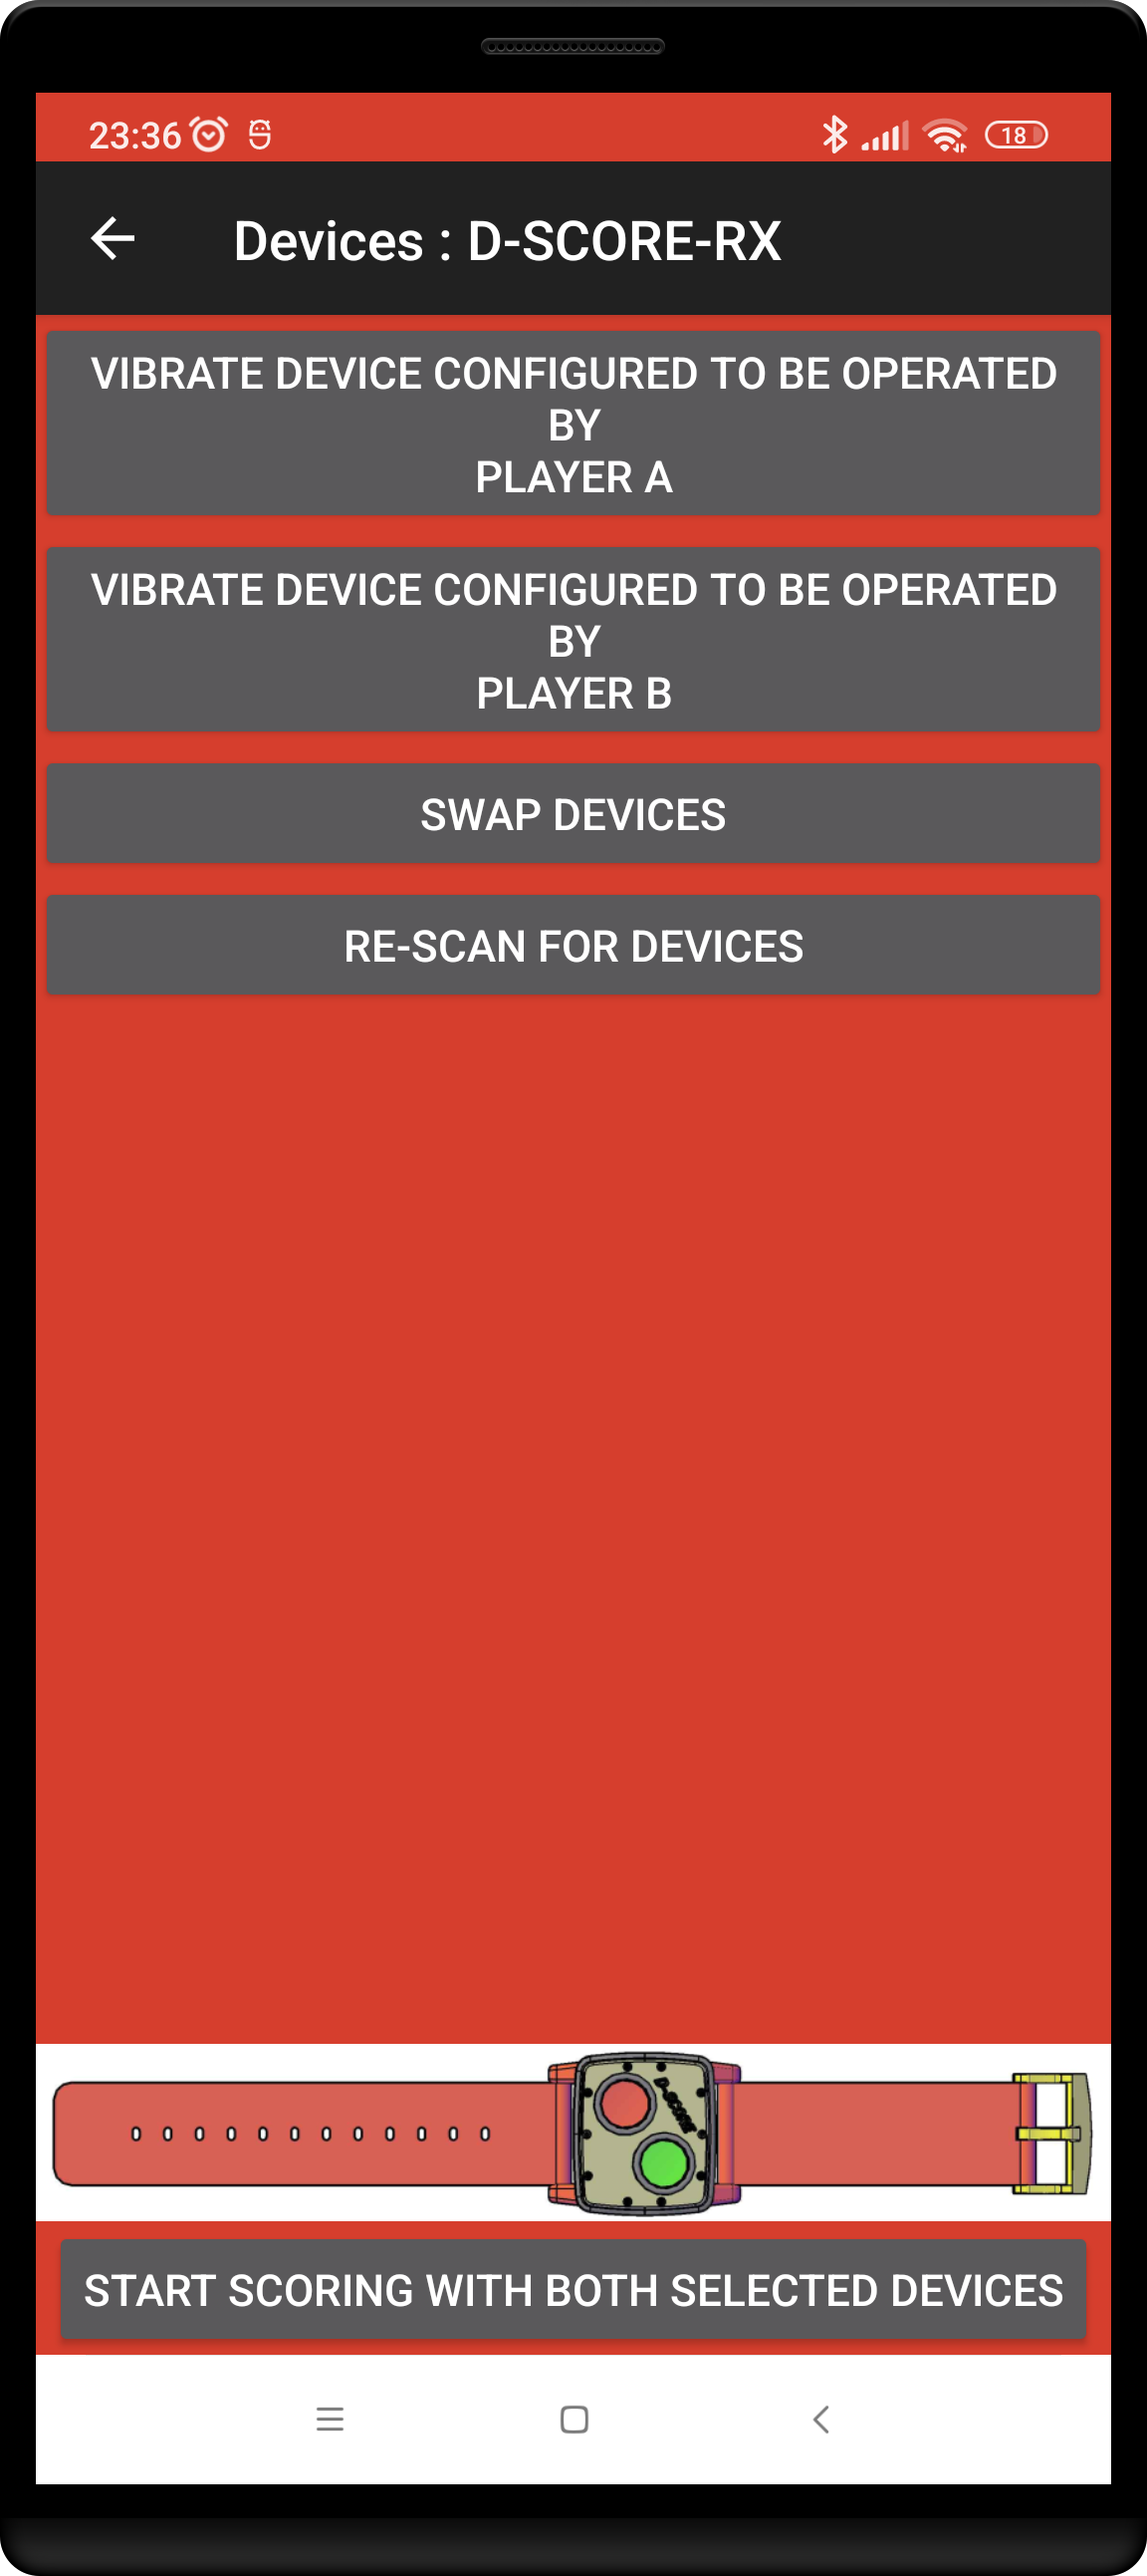
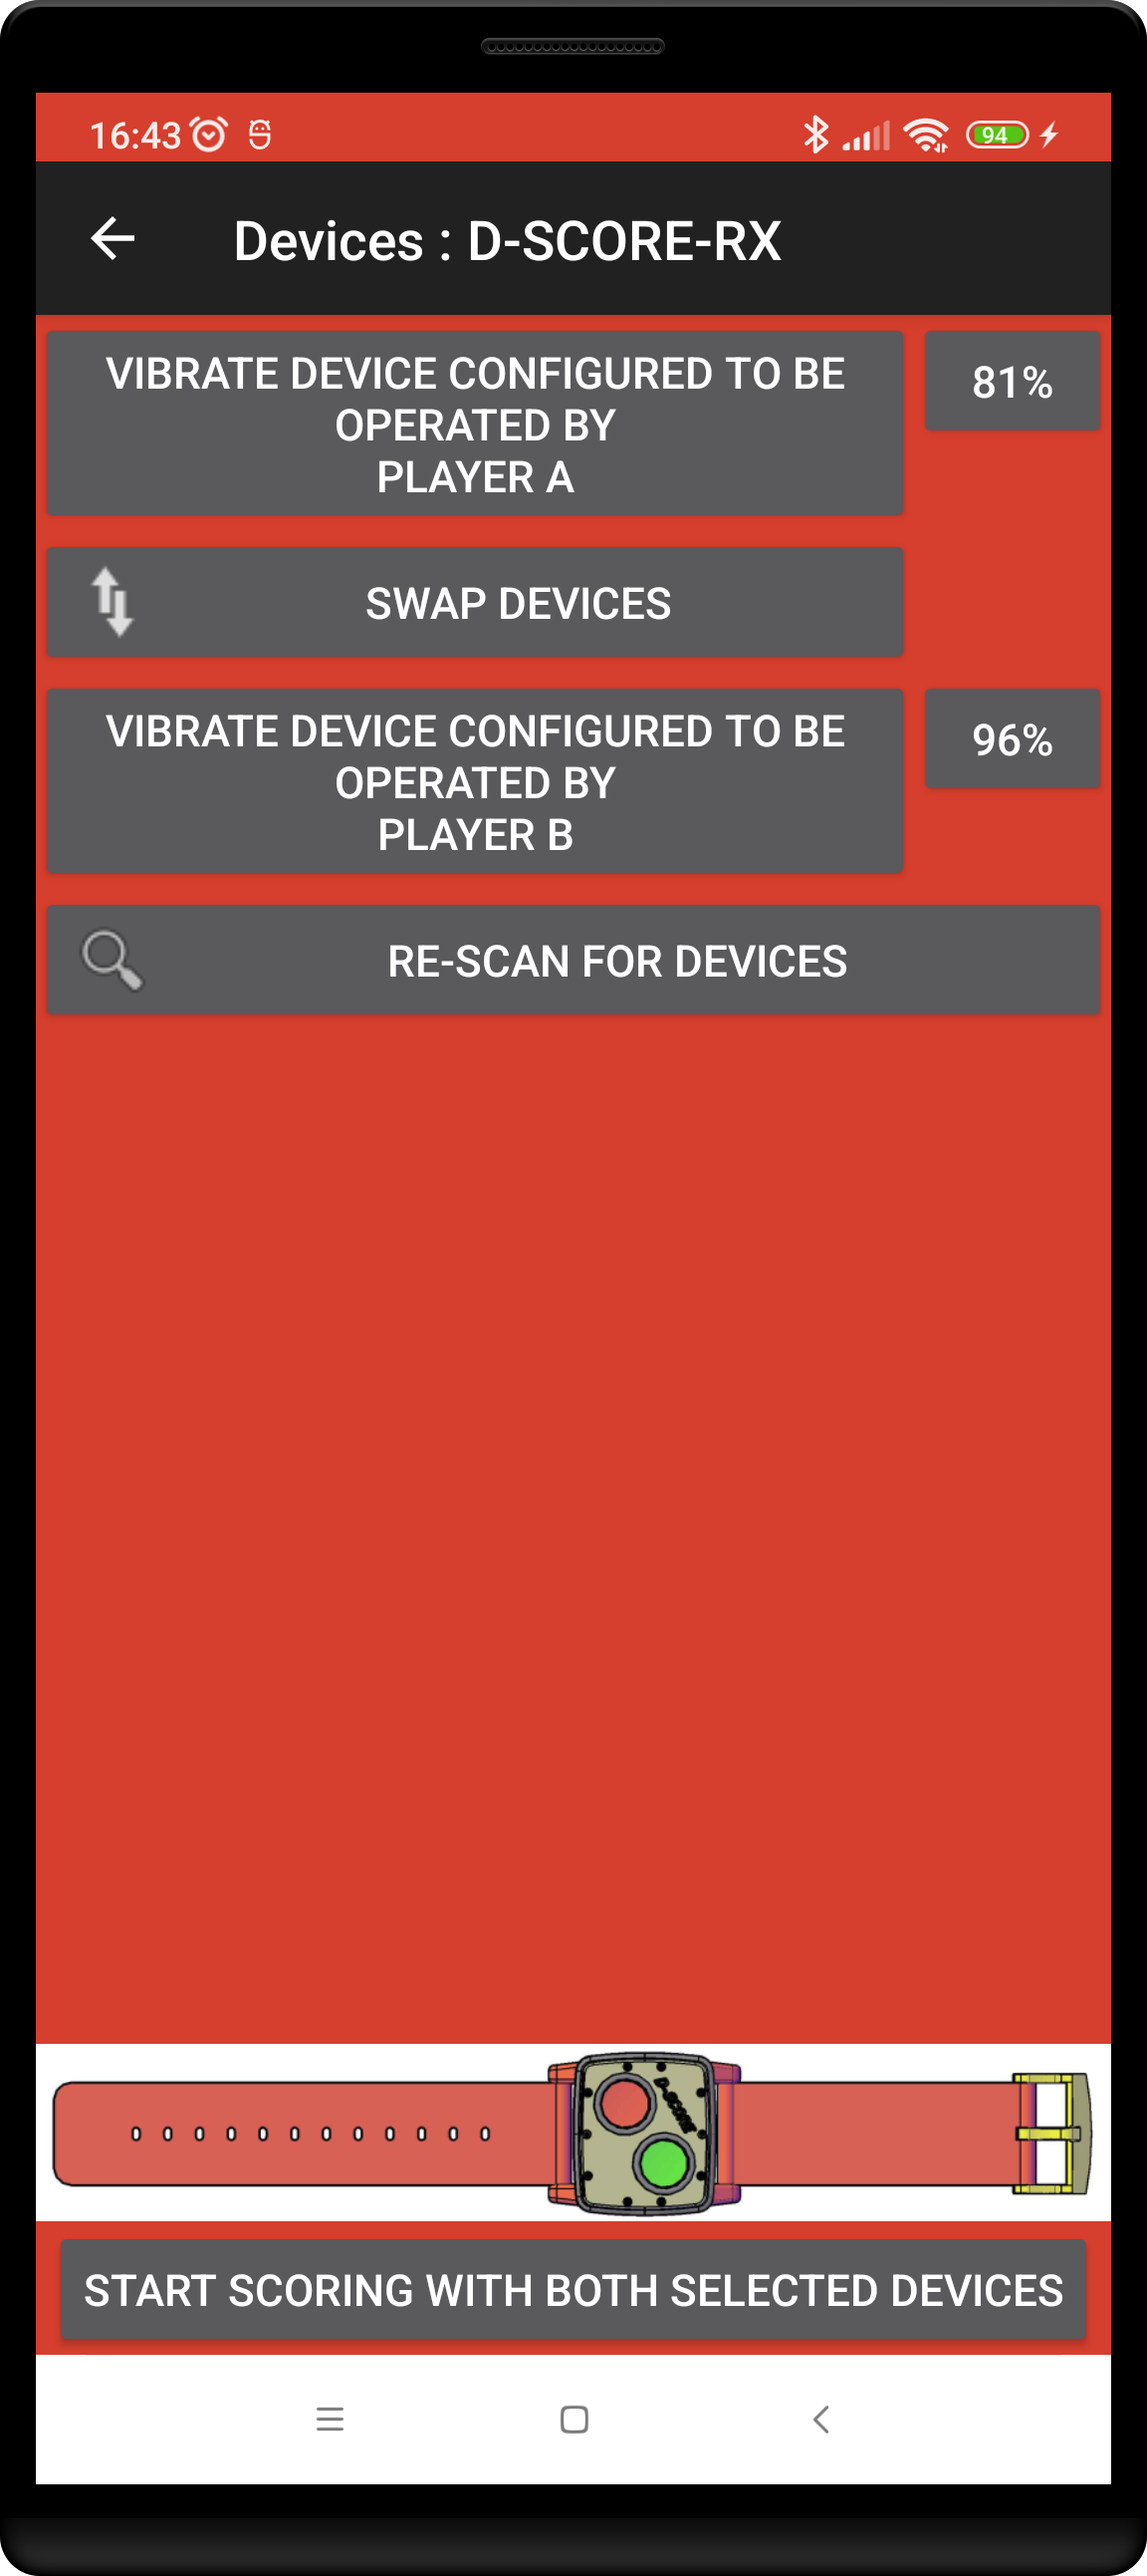
Documentation

Changed region(s): [[0.0312, 0.1238, 0.9688, 0.4023], [0.6875, 0.0309, 0.9062, 0.0619], [0.125, 0.0309, 0.1562, 0.0619]]

diff --git a/docs/reffing/8.2.bluetooth.le.md b/docs/reffing/8.2.bluetooth.le.md
@@ -74,16 +74,19 @@ To start using BLE devices, you need to scan for and connect them to the app:
 
 ### Verify the connected devices
 
-Because the wristbands may have cryptic names it is sometimes difficult to determine if you have selected the correct devices.
+Because the wristbands may have cryptic names it is sometimes difficult to determine if you have 
+selected the correct devices.
 
-To verify what wristband(s) is/have been selected you can use the 'Verify' option to 'ask' the selected device(s) to vibrate shortly.
+To verify what wristband(s) is/have been selected you can use the 'Verify' option to 'ask' the 
+selected device(s) to vibrate shortly.
 
 ![Bluetooth LE Connect and Verify Devices](../img/sb.ble.01.verify.connected.devices.png)
 
 This allows you to 
 - pick the correct device to put on your wrist if several are e.g. spread out on a table, or
-- physically swap devices between teams if it appears you are currently holding the incorrect ones
-- if the correct 2 devices have been selected but assigned to the wrong player to swap the assignment in the app (not needing to physically swap the devices)  
+- if the correct 2 devices have been selected but assigned to the wrong player to swap the assignment in the app (not needing to physically swap the devices), or  
+- physically swap devices between players/teams if it appears they are currently holding the incorrect ones
+- verify the battery level (little buttons on the right), ensuring the devices used have enough 'life' left to last an entire match
 
 You can also trigger a quick dialog to be displayed presenting similar function by long-pressing the small BlueTooth icon (typically located in a corner of one of the 'Current Score' buttons).
 
@@ -132,6 +135,8 @@ These can all be changed in the specially created `Settings > Bluetooth` LE sect
     - Changes sides feature: `Don't`
 
 ### Battery level
+
+It is best to check the batter level in the 'Verify the connected devices' stop, but if you want to check them quickly during the match:
 
 You can consult the battery level of the connected devices by clicking on the small BlueTooth icon that tells how many devices are connected to the app.
 (Typically located in a corner of one of the 'Current Score' buttons)
